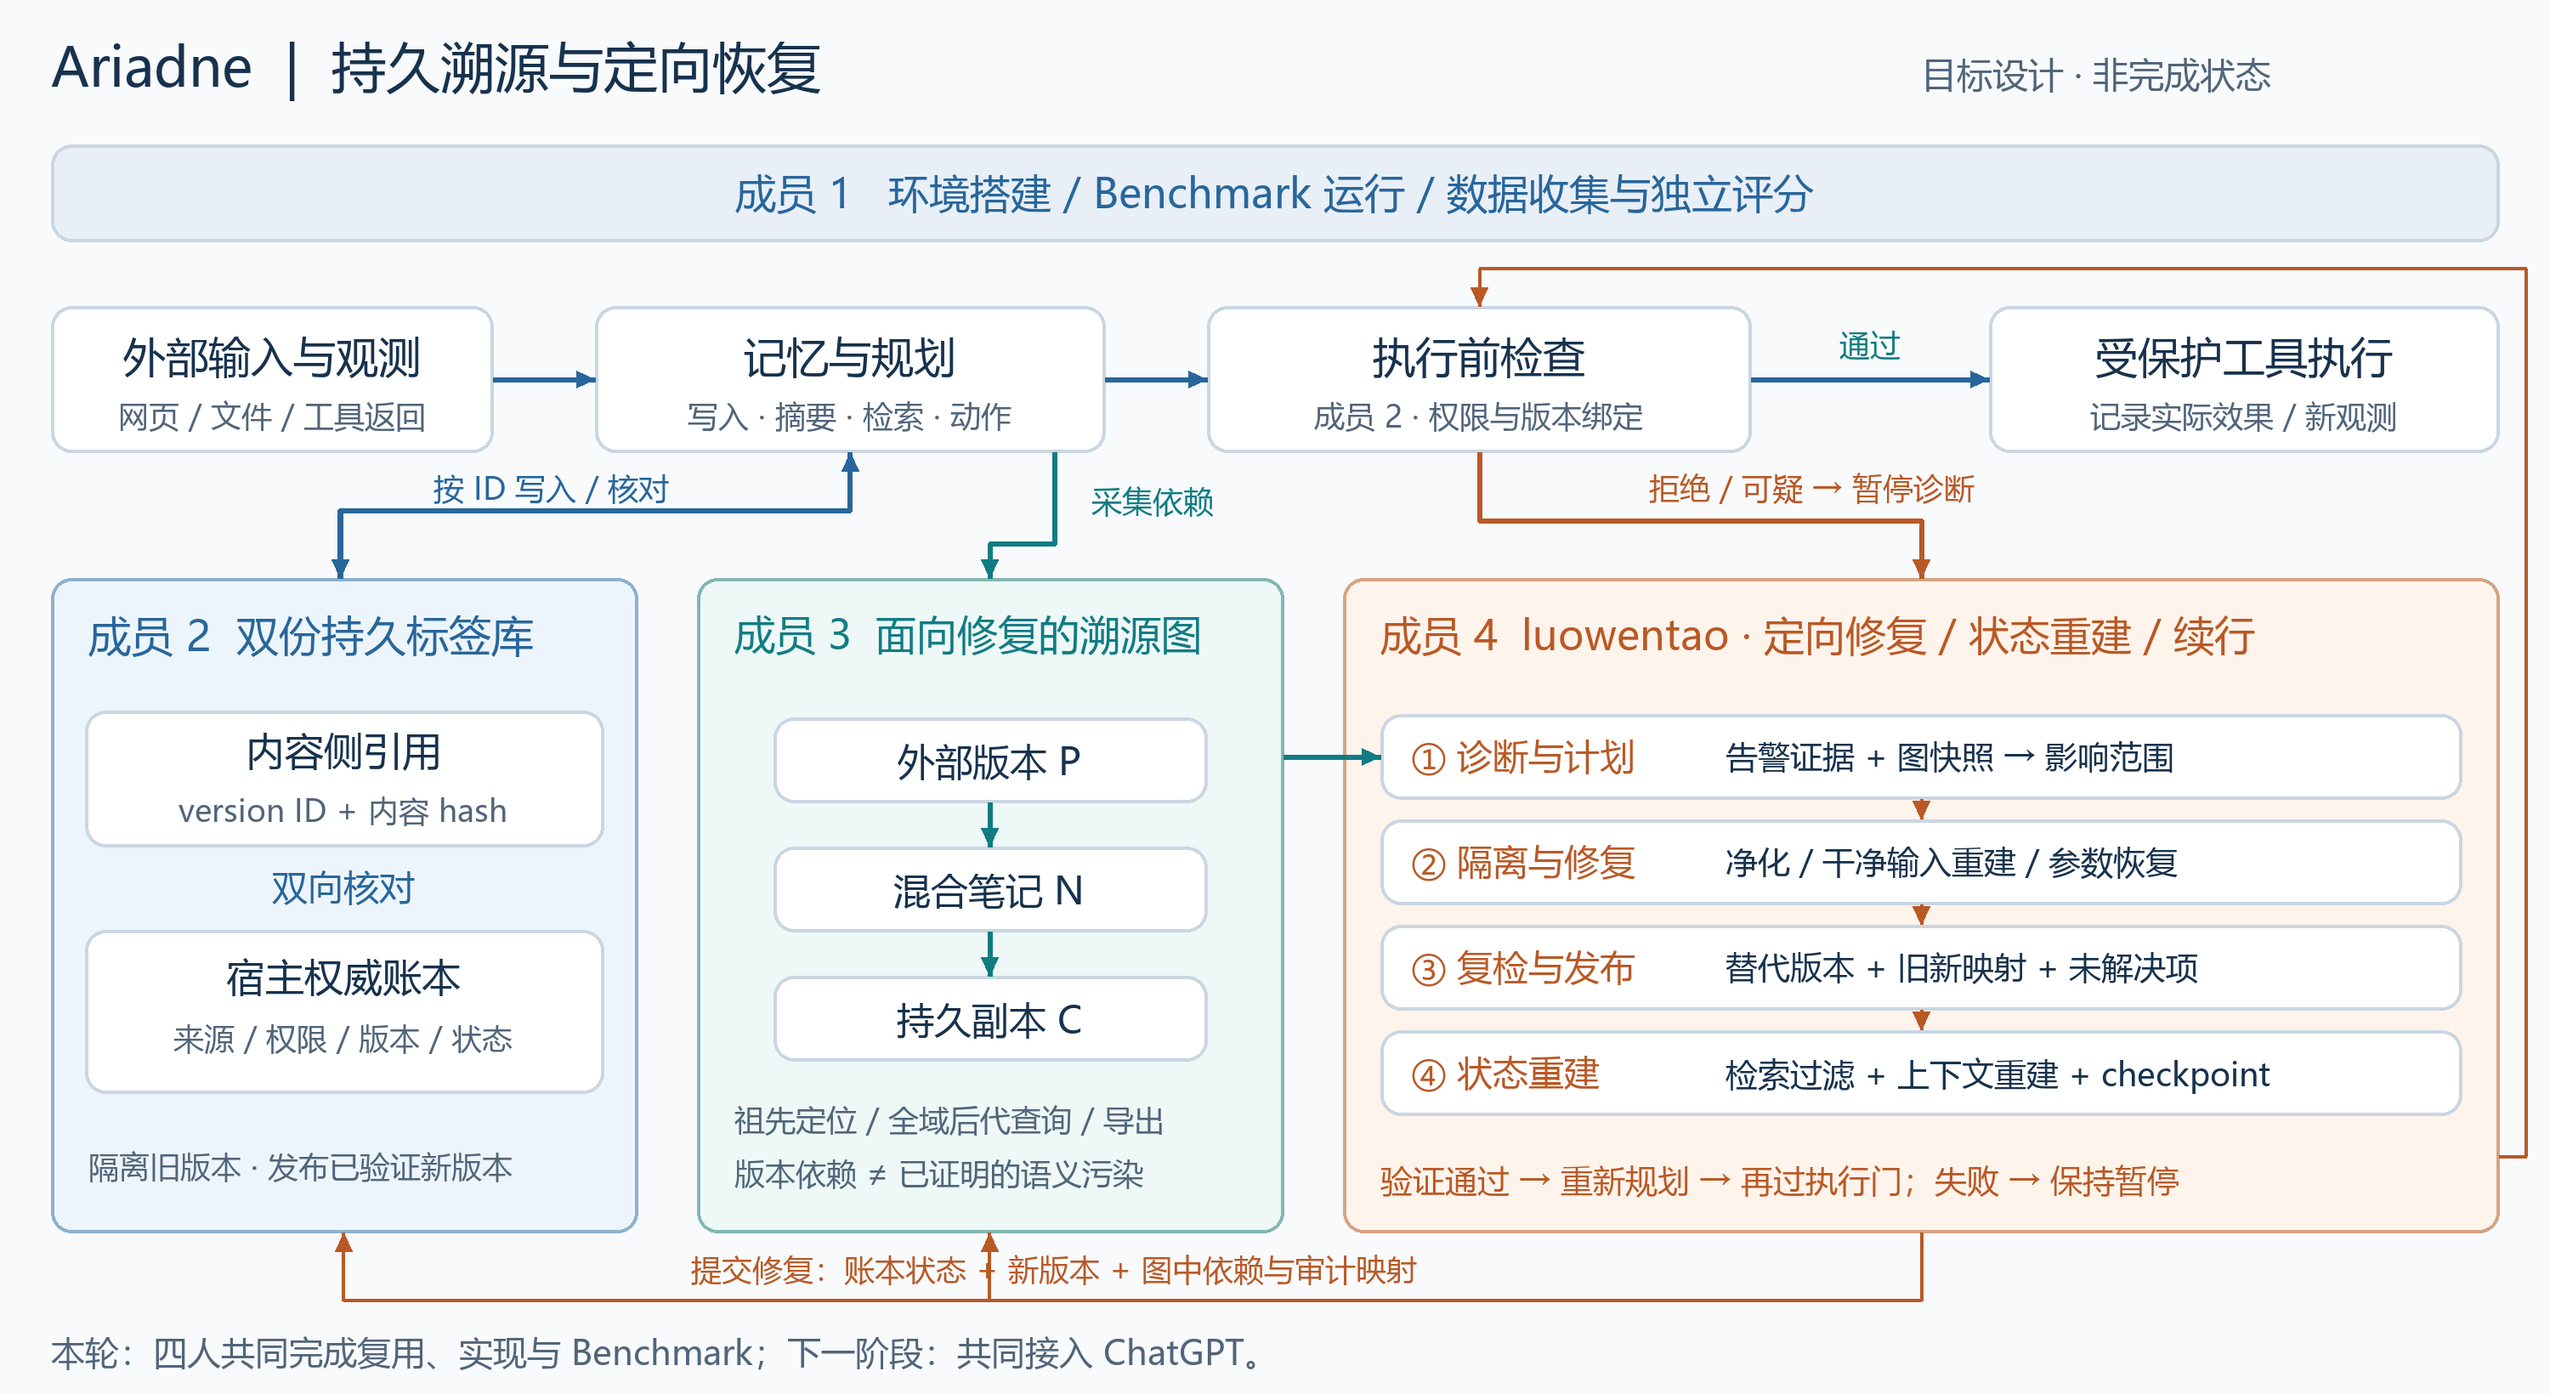
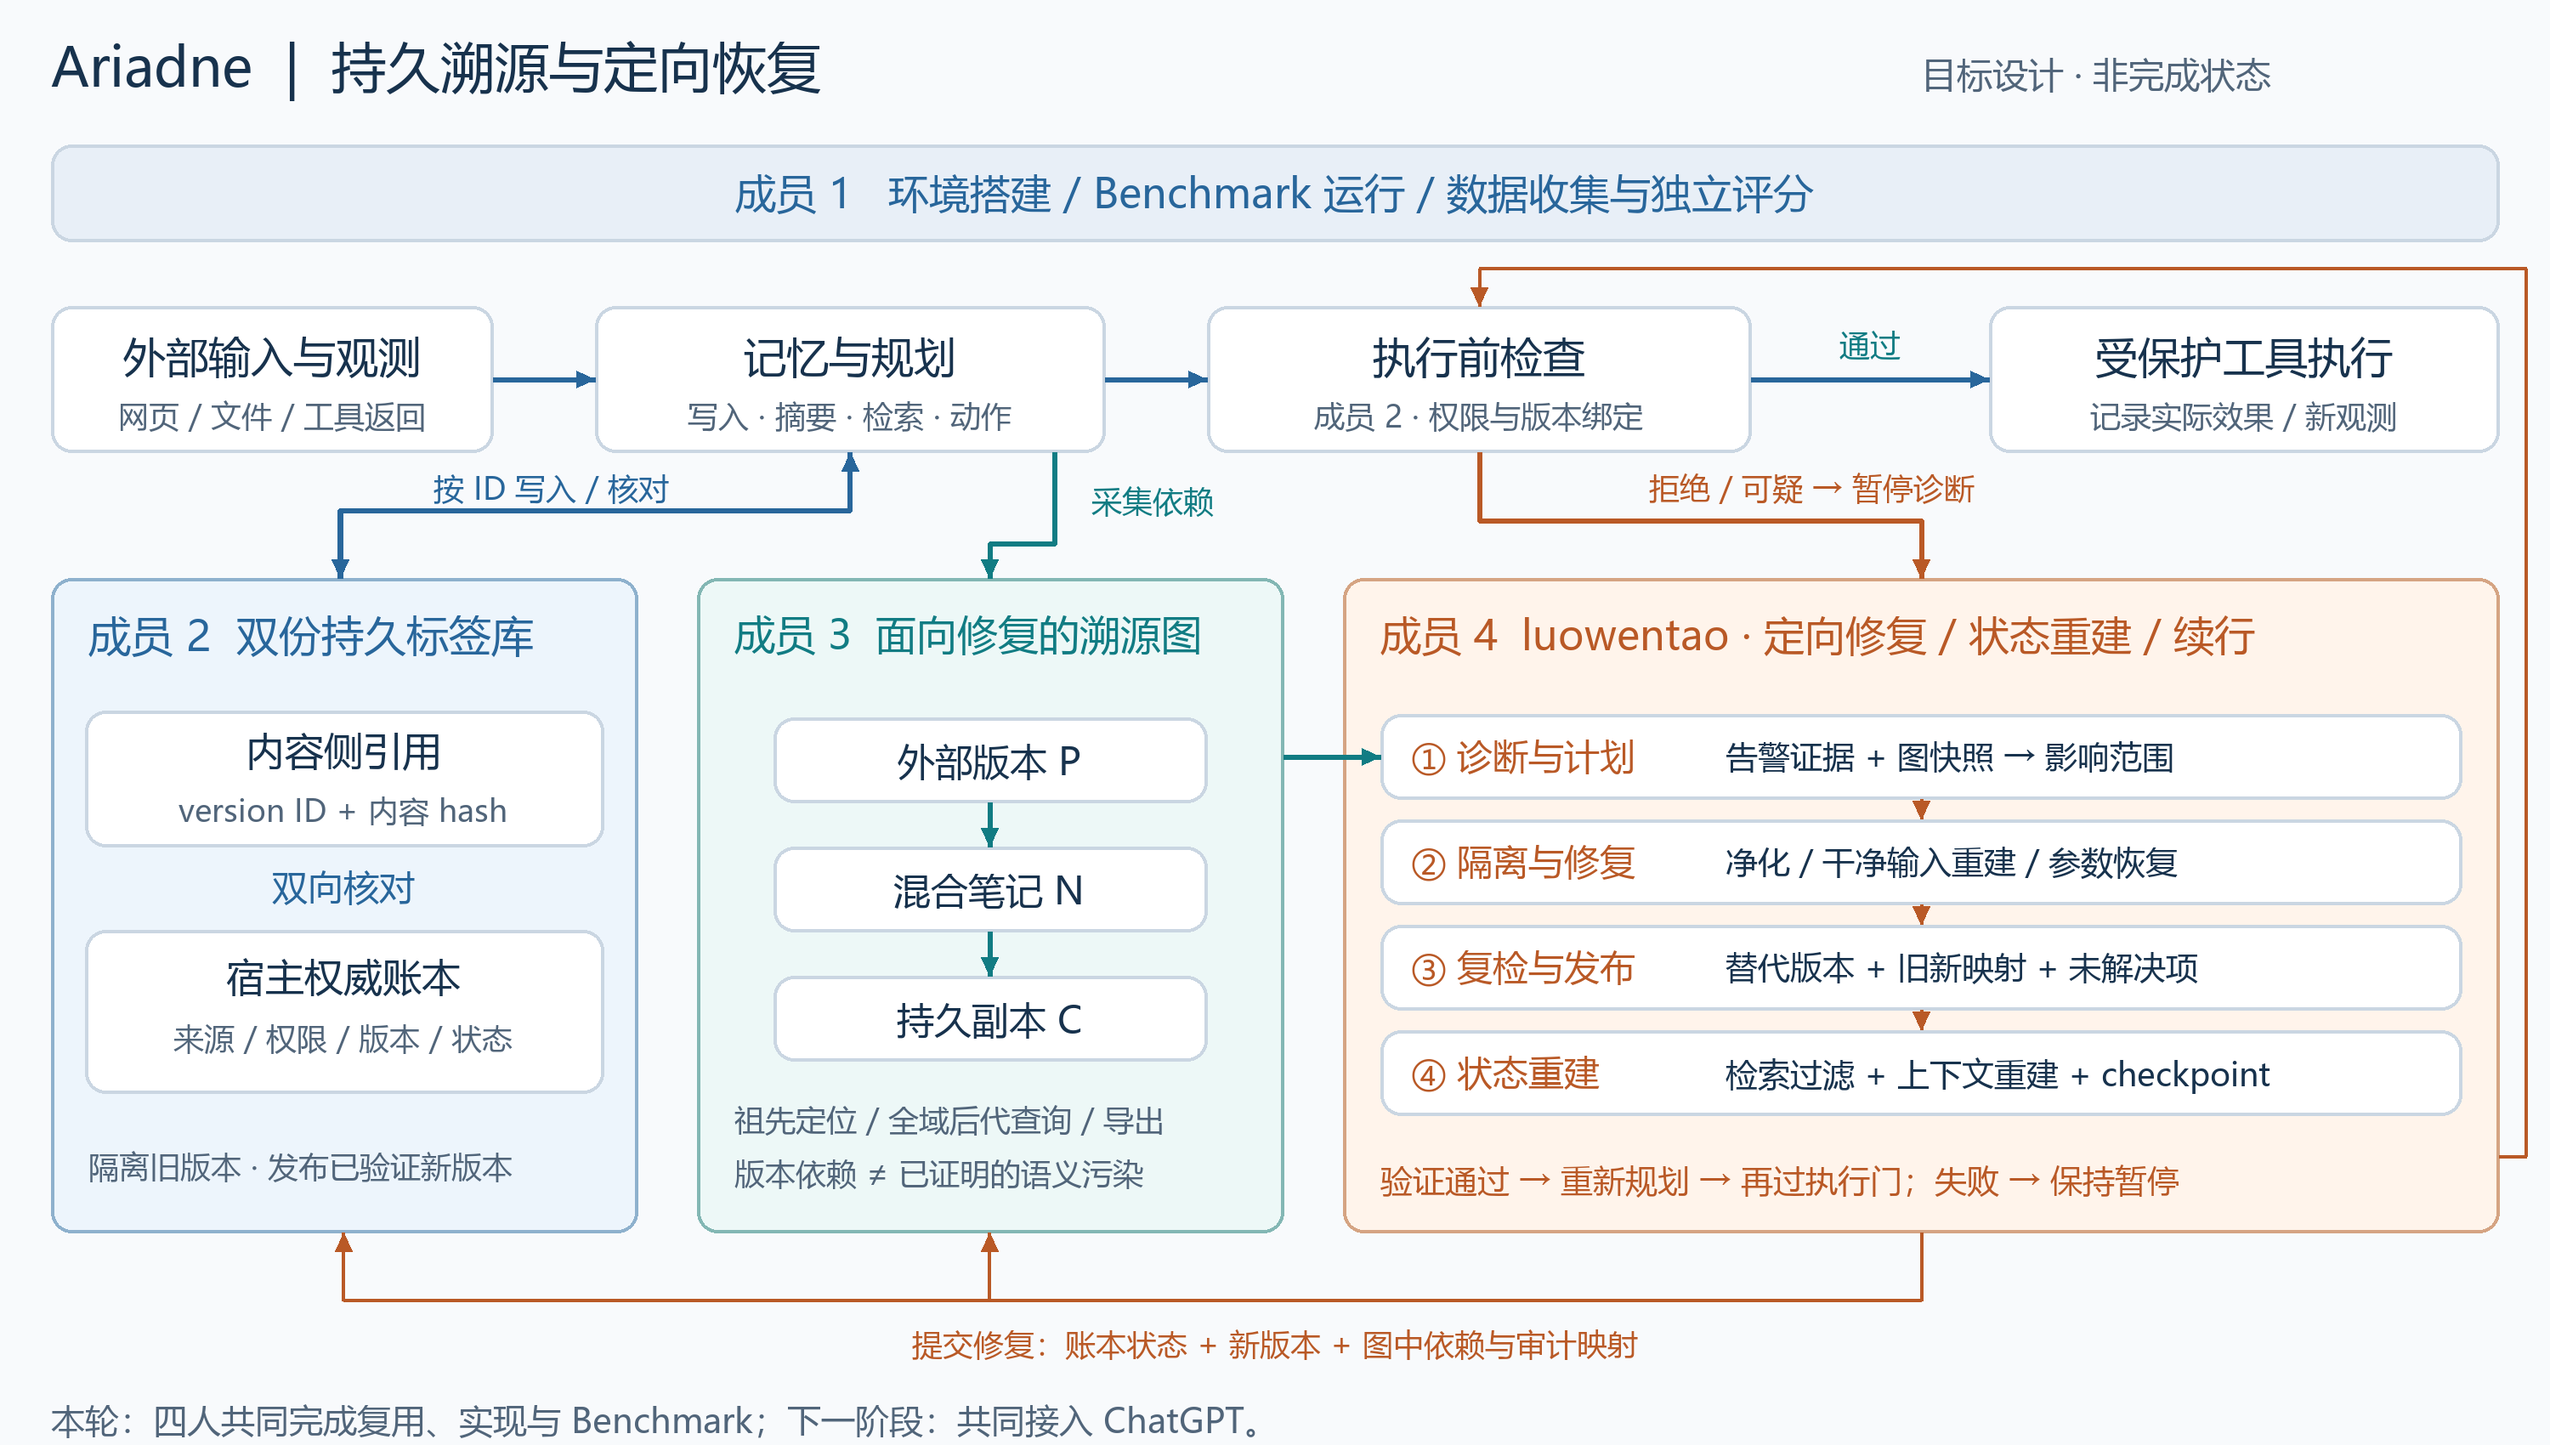
docs: separate diagram annotations from connector lines

diff --git a/scripts/draw_architecture.py b/scripts/draw_architecture.py
@@ -11,7 +11,7 @@ parser = argparse.ArgumentParser()
 parser.add_argument('--font', required=True)
 args = parser.parse_args()
 S = 2
-im = Image.new('RGB', (1500*S, 820*S), '#f8fafc')
+im = Image.new('RGB', (1500*S, 850*S), '#f8fafc')
 d = ImageDraw.Draw(im)
 NAVY, BLUE, TEAL, ORANGE, GRAY = '#17324d', '#28669b', '#117c83', '#b95926', '#51657a'
 
@@ -81,8 +81,8 @@ text(970,278,'拒绝 / 可疑 → 暂停诊断',18,ORANGE)
 arrow([(1470,680),(1486,680),(1486,158),(870,158),(870,180)],ORANGE,2)
 arrow([(1130,725),(1130,765),(202,765),(202,725)],ORANGE,2)
 arrow([(582,765),(582,725)],ORANGE,2)
-text(620,746,'提交修复：账本状态 + 新版本 + 图中依赖与审计映射',18,ORANGE,True)
-text(30,786,'本轮：四人共同完成复用、实现与 Benchmark；下一阶段：共同接入 ChatGPT。',20,GRAY)
+text(750,790,'提交修复：账本状态 + 新版本 + 图中依赖与审计映射',18,ORANGE,True)
+text(30,826,'本轮：四人共同完成复用、实现与 Benchmark；下一阶段：共同接入 ChatGPT。',20,GRAY)
 out=Path(__file__).resolve().parents[1]/'docs/assets/architecture.png'
 out.parent.mkdir(parents=True,exist_ok=True)
 im.save(out,optimize=True)
